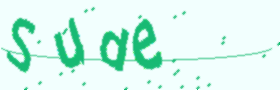
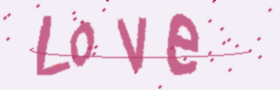
Comments added.

diff --git a/main.py b/main.py
@@ -3,8 +3,8 @@ from captcha.image import ImageCaptcha
 #   We define the dimensions of the image we want to be created.
 image = ImageCaptcha(width= 280, height= 90)
 #   We define the text that will be created on the captcha.
-captcha_text = 'Sude'
+captcha_text = 'Love'
 
 data = image.generate(captcha_text)
-#   We define the
+#   We define the name of the created png file
 image.write(captcha_text, 'CAPTCHA.png')
